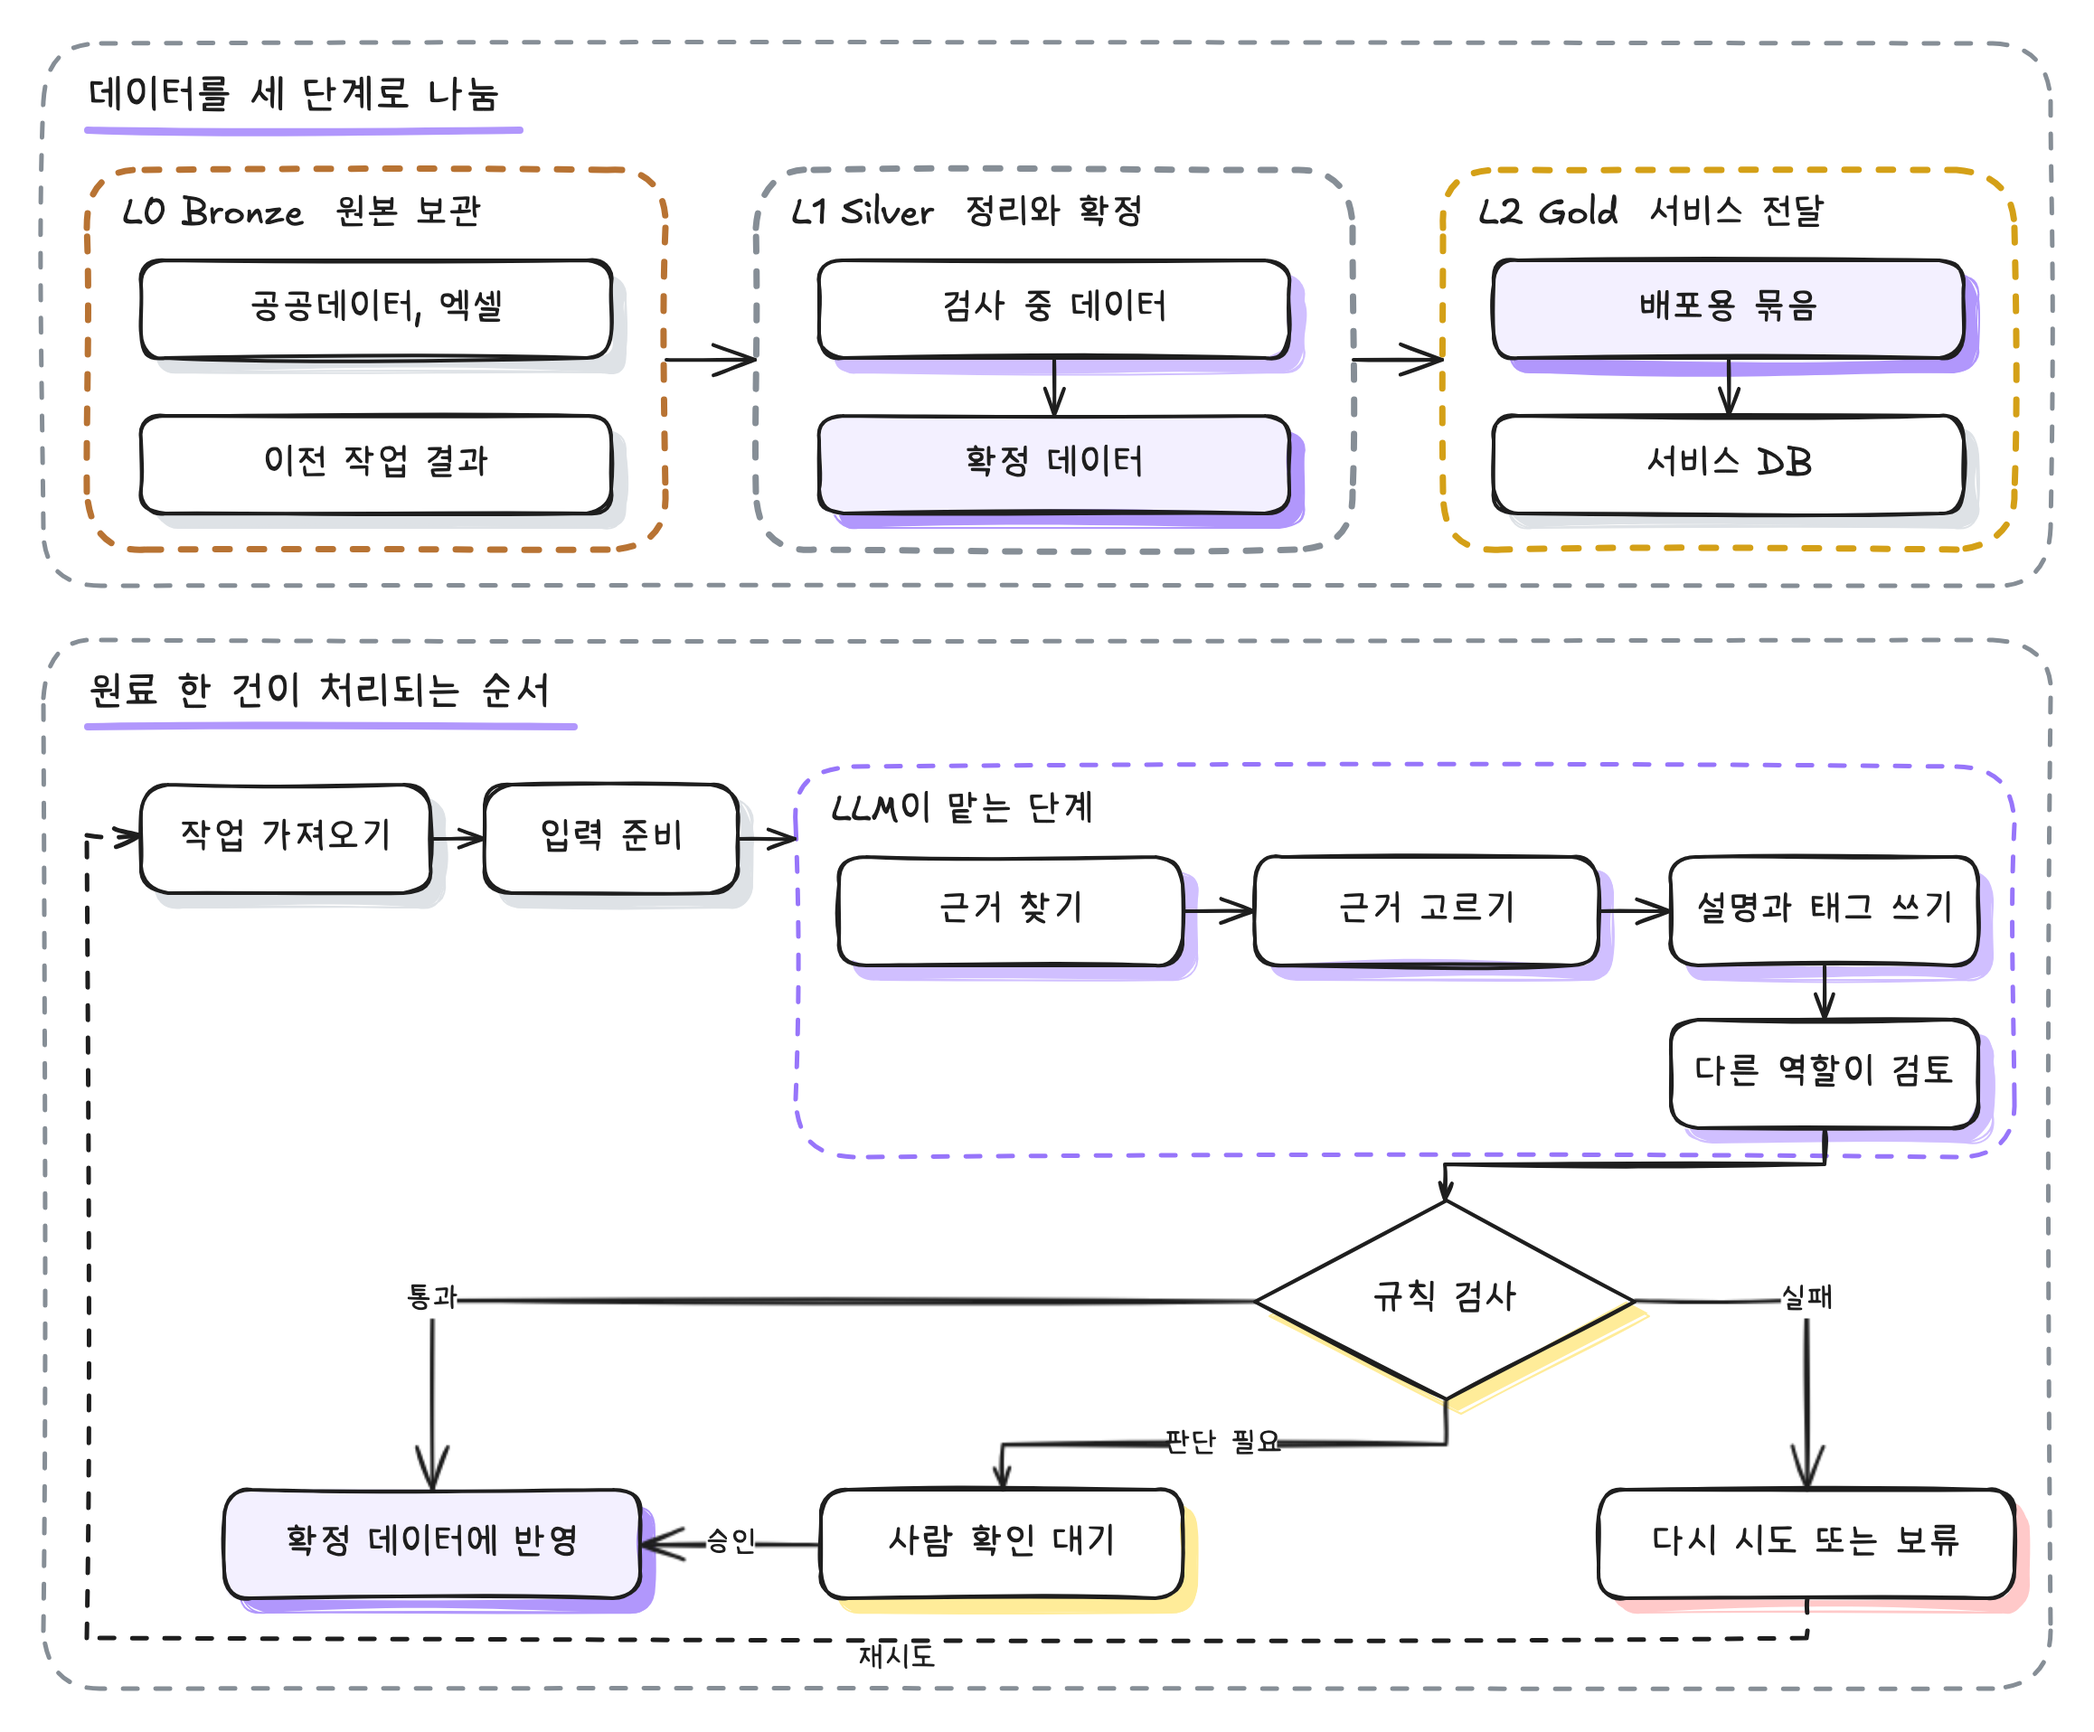
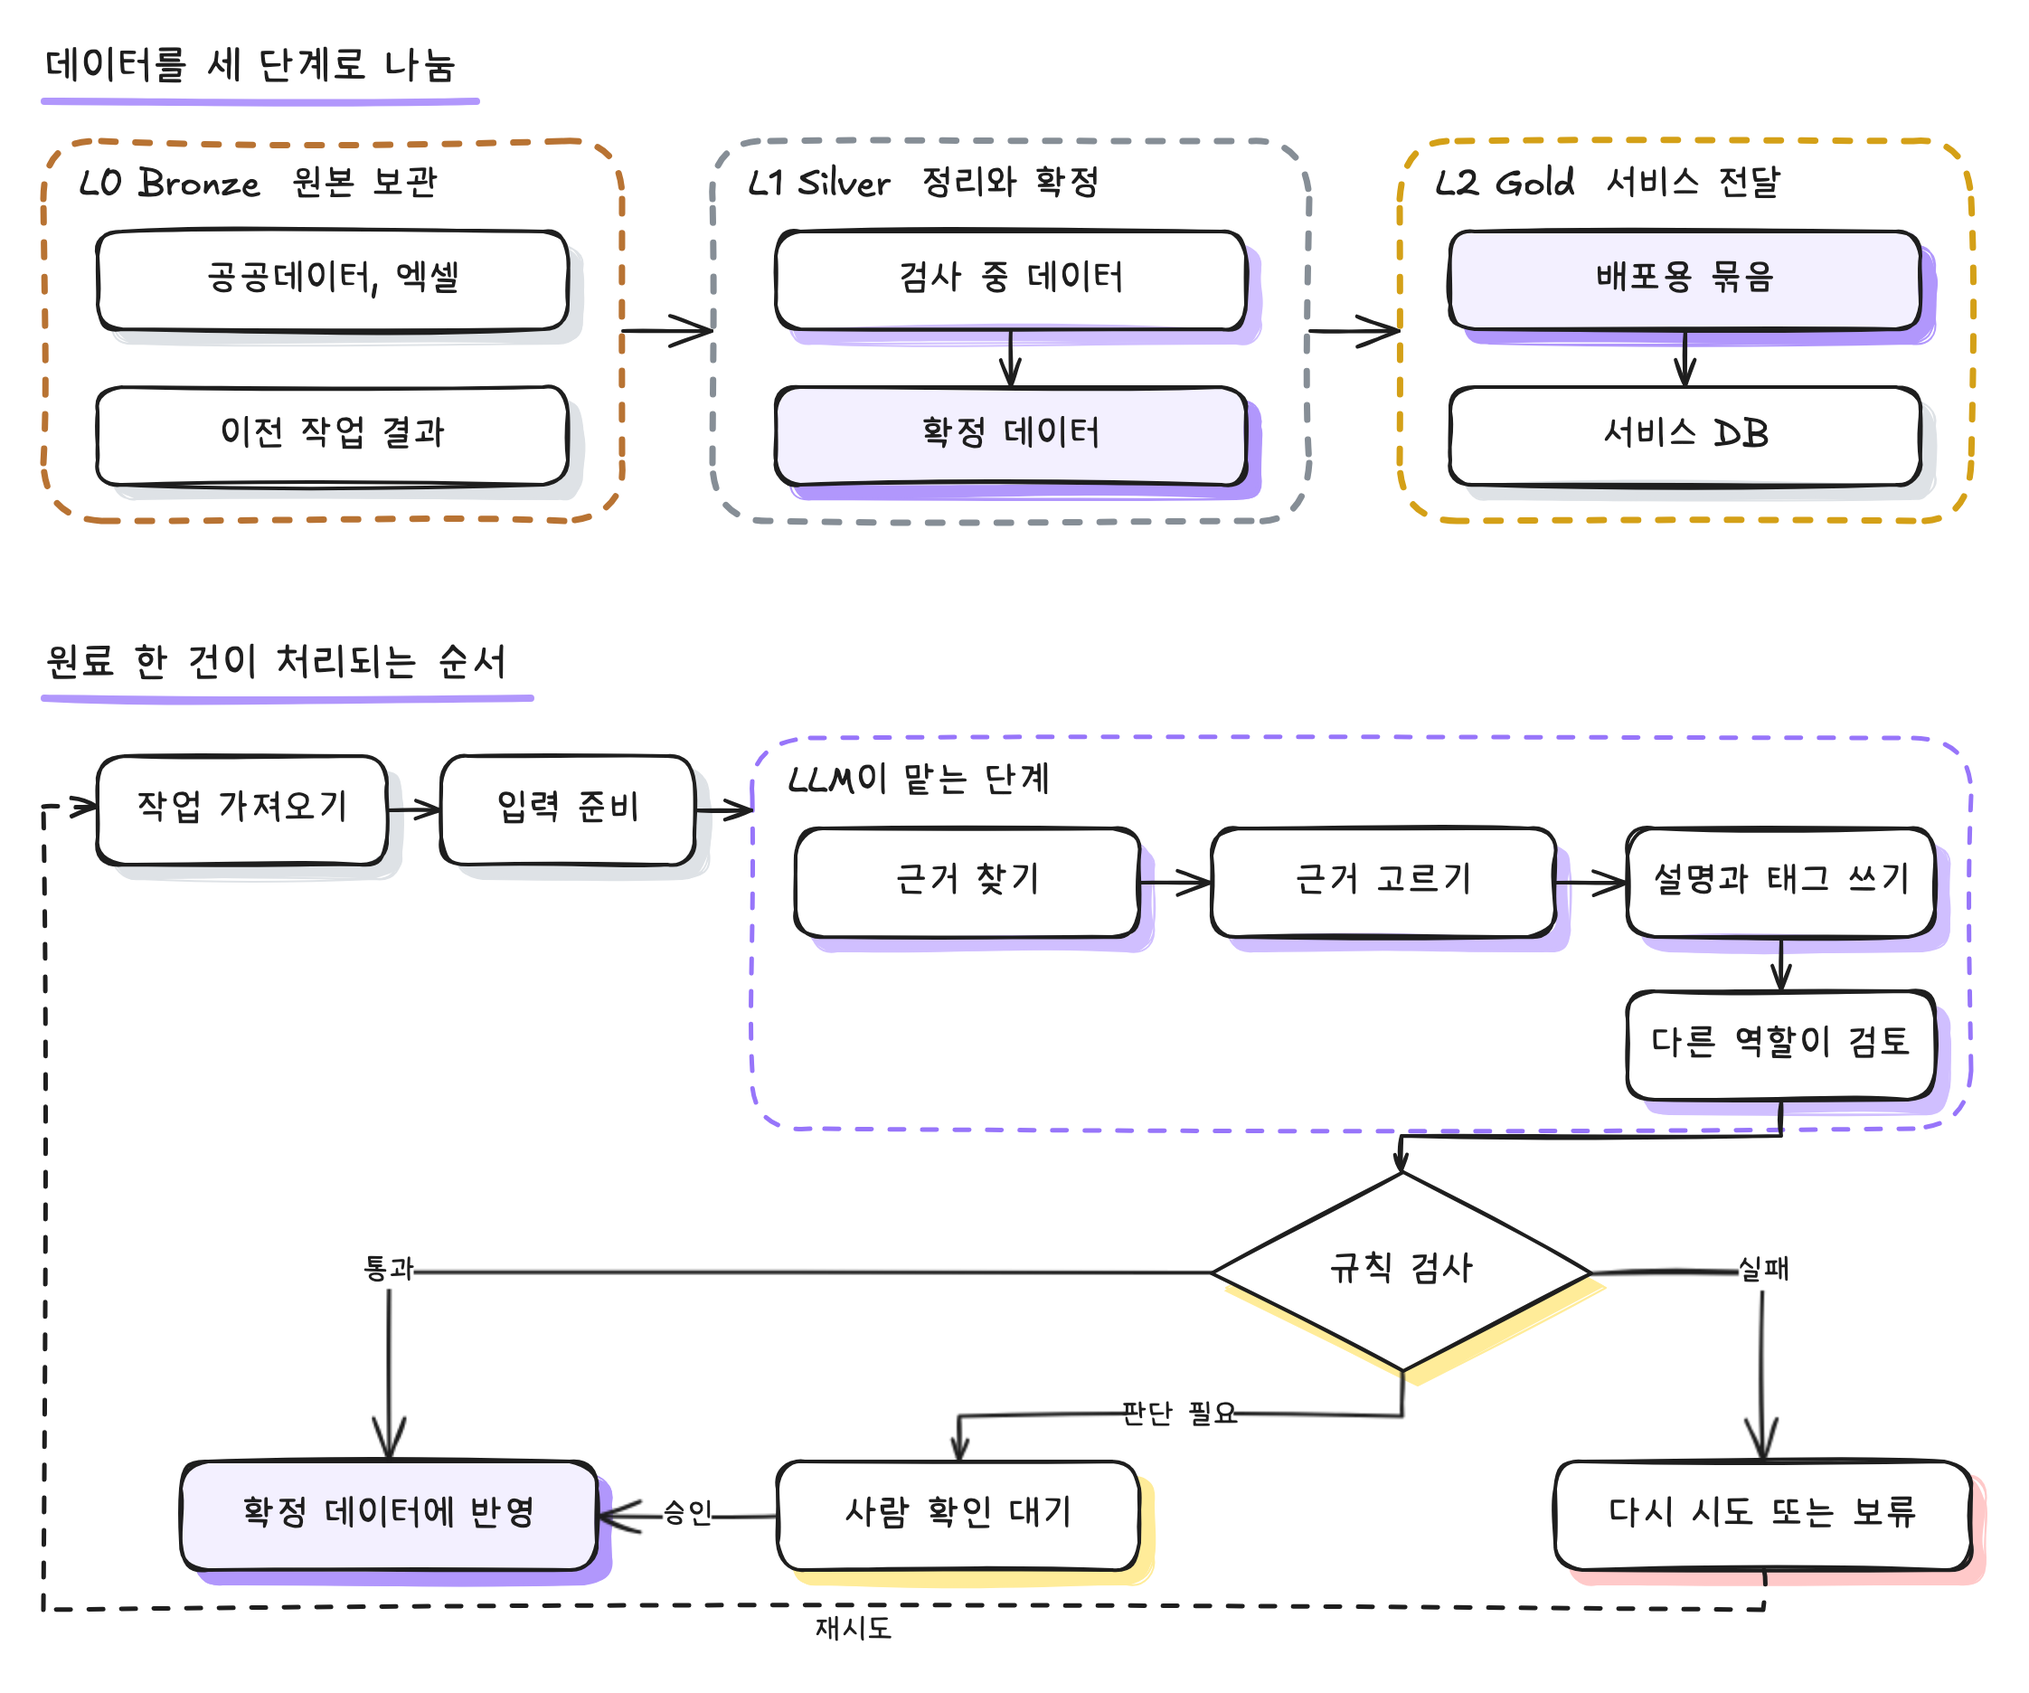
Remove outer section frames from pipeline diagram

diff --git a/index.html b/index.html
@@ -95,7 +95,7 @@
   <p class="case-deck">데이터를 원본 보관, 정리와 확정, 서비스 전달 세 단계로 나누고, 단계마다 코드가 할 일과 AI가 할 일을 구분했습니다.</p>
   <figure>
     <div class="figure-heading"><p class="figure-title">데이터 처리 단계와 원료 한 건의 처리 순서</p><a href="assets/diagrams/data-hub-layers.png" data-diagram aria-label="데이터 처리 단계와 원료 한 건의 처리 순서 크게 보기">크게 보기 ↗</a></div>
-    <a class="diagram-link" href="assets/diagrams/data-hub-layers.png" data-diagram aria-label="데이터 처리 단계와 원료 한 건의 처리 순서 이미지 확대"><img class="diagram-image" src="assets/diagrams/data-hub-layers.png" width="2316" height="1916" alt="데이터를 원본 보관, 정리와 확정, 서비스 전달 세 단계로 나눈다. 원료 한 건은 작업을 가져와 입력을 준비한 뒤 LLM이 근거 찾기, 근거 고르기, 설명과 태그 쓰기, 다른 역할의 검토를 거치고, 규칙 검사 결과에 따라 확정 데이터 반영, 사람 확인 대기, 재시도나 보류로 나뉜다" loading="lazy" decoding="async"></a>
+    <a class="diagram-link" href="assets/diagrams/data-hub-layers.png" data-diagram aria-label="데이터 처리 단계와 원료 한 건의 처리 순서 이미지 확대"><img class="diagram-image" src="assets/diagrams/data-hub-layers.png" width="2244" height="1872" alt="데이터를 원본 보관, 정리와 확정, 서비스 전달 세 단계로 나눈다. 원료 한 건은 작업을 가져와 입력을 준비한 뒤 LLM이 근거 찾기, 근거 고르기, 설명과 태그 쓰기, 다른 역할의 검토를 거치고, 규칙 검사 결과에 따라 확정 데이터 반영, 사람 확인 대기, 재시도나 보류로 나뉜다" loading="lazy" decoding="async"></a>
   </figure>
   <div class="psr">
     <div>
